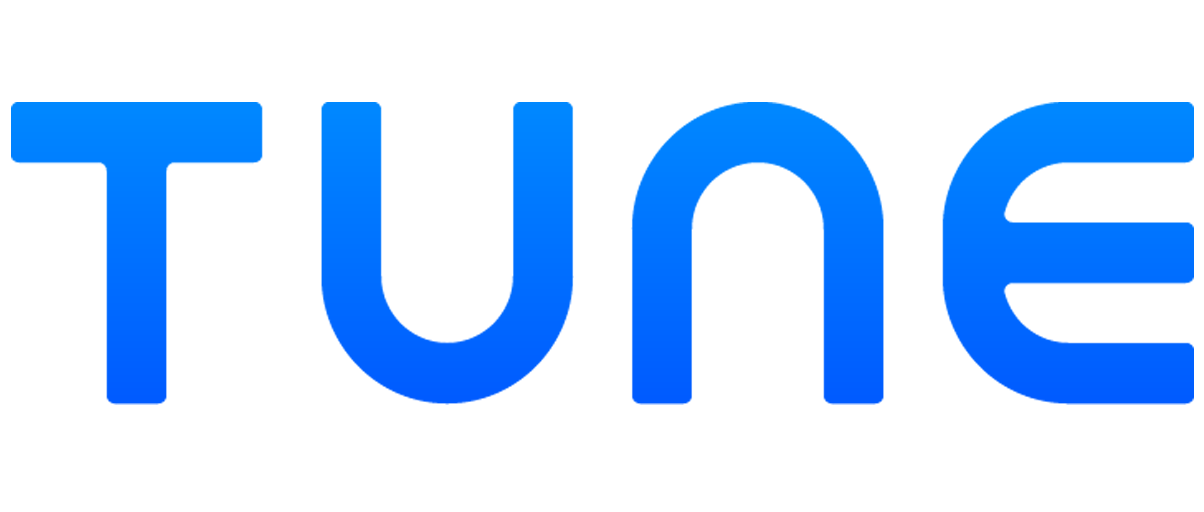
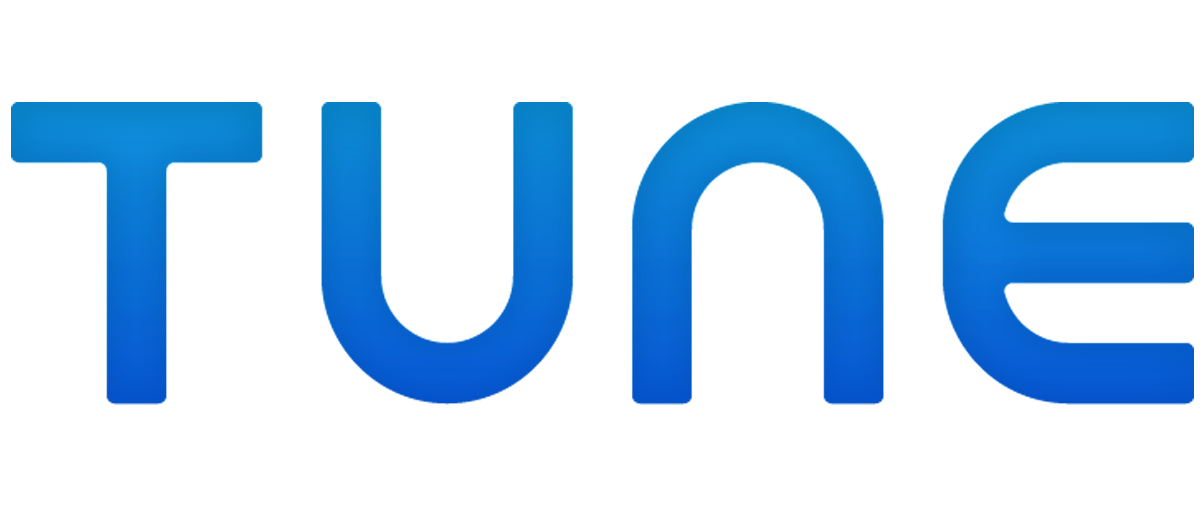
update

diff --git a/index.html b/index.html
@@ -22,7 +22,7 @@
         </form>
         <div class="row logos">
             <div class="col-md-6 col-sm-12 text-right">
-                <img class="logo" src="assets/images/Zune.png" alt="ZUNE">
+                <img class="logo" src="assets/images/zune-time.png" alt="ZUNE">
             </div>
             <div class="col-md-6 col-sm-12 text-left">
                 <img class="logo" src="assets/images/TUNE.png" alt="TUNE">
